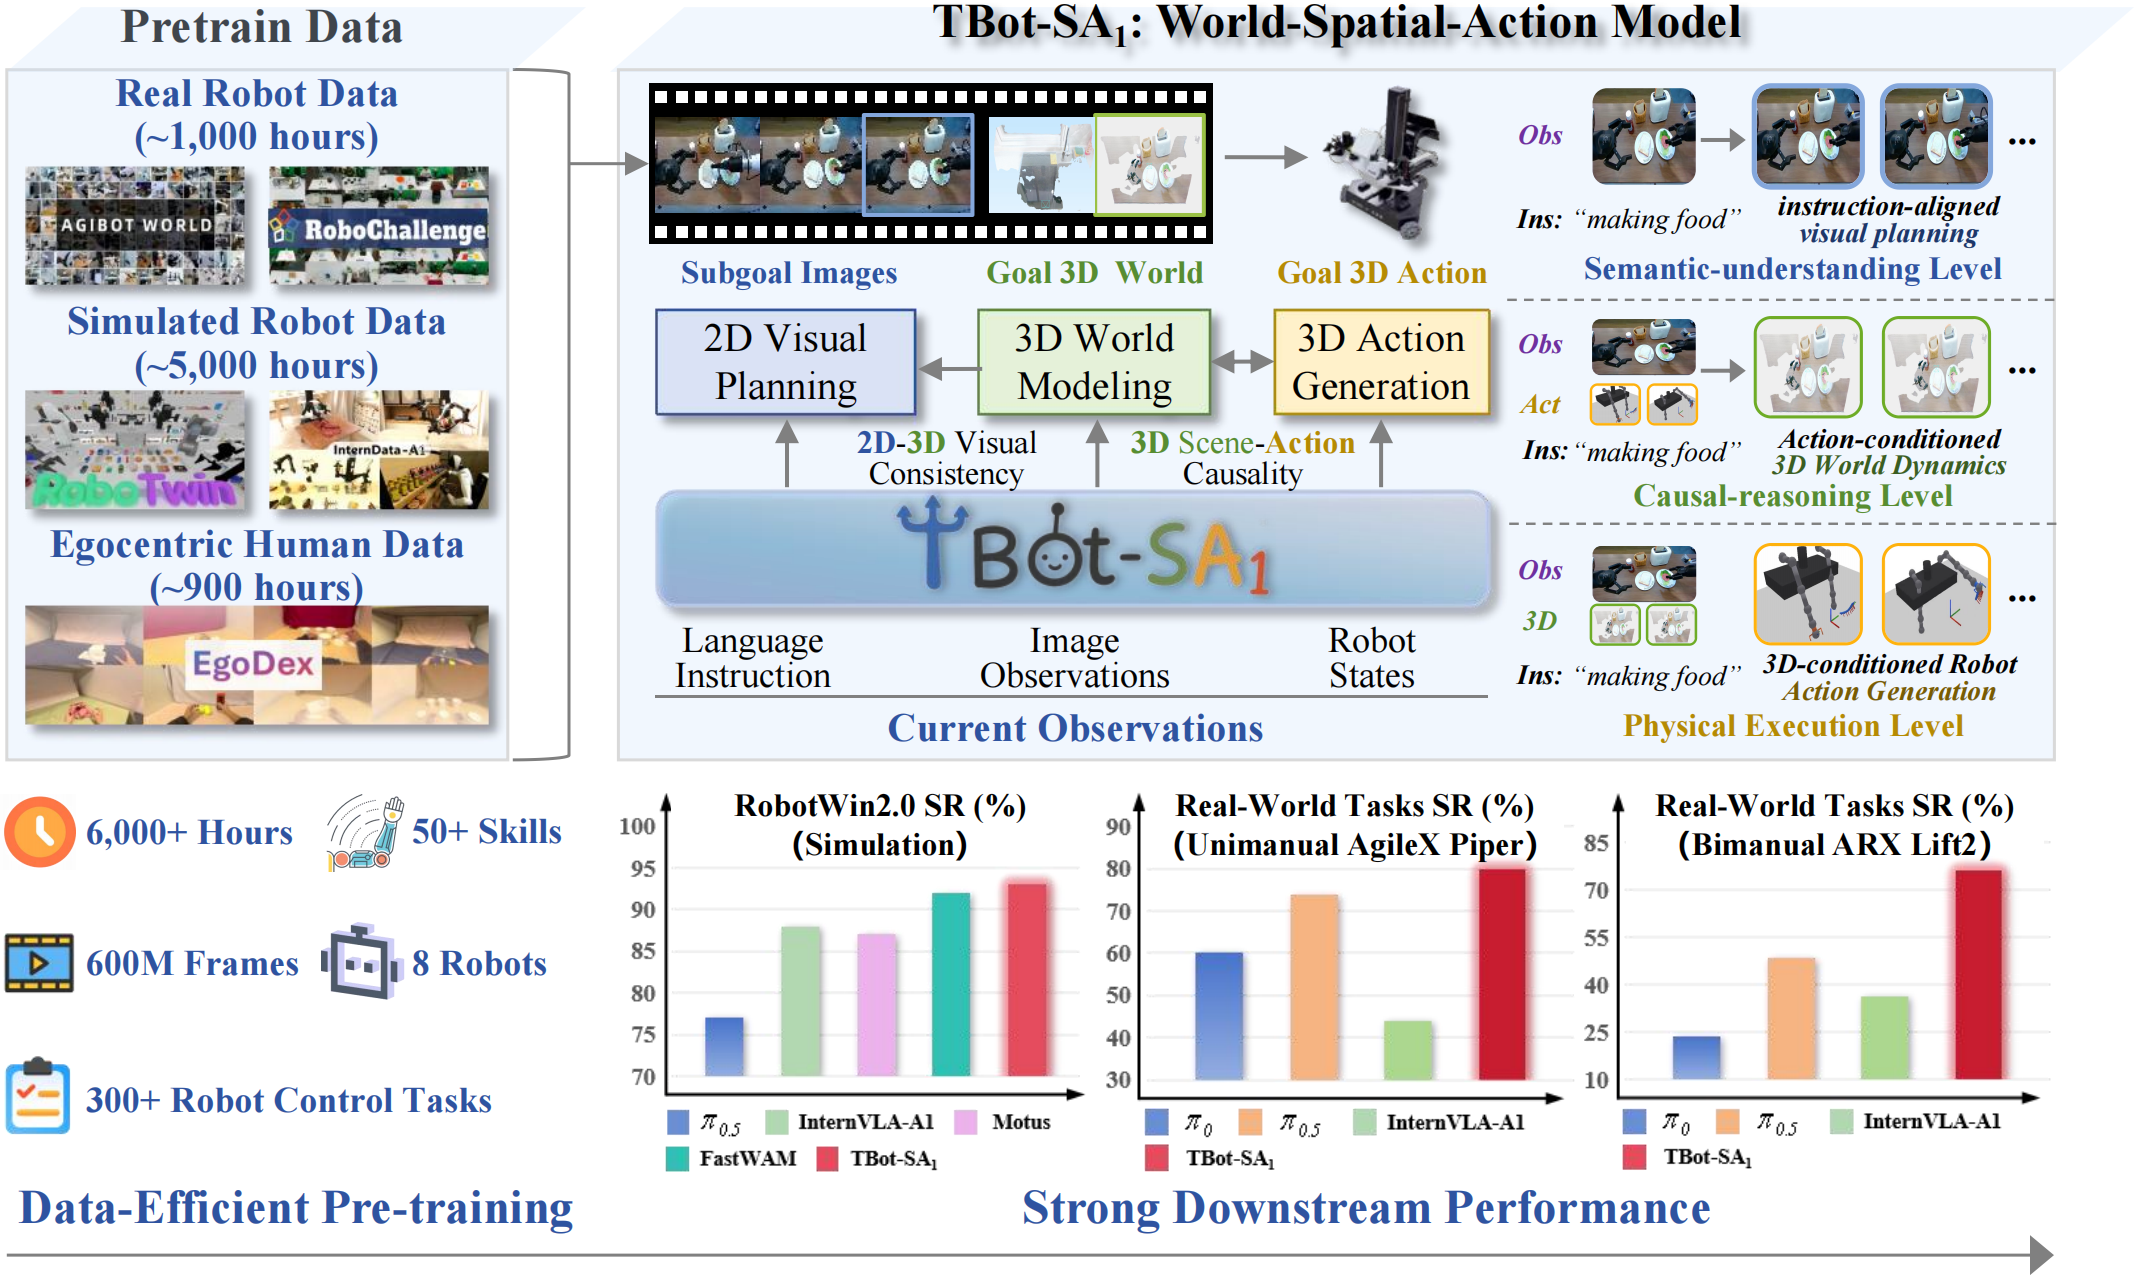
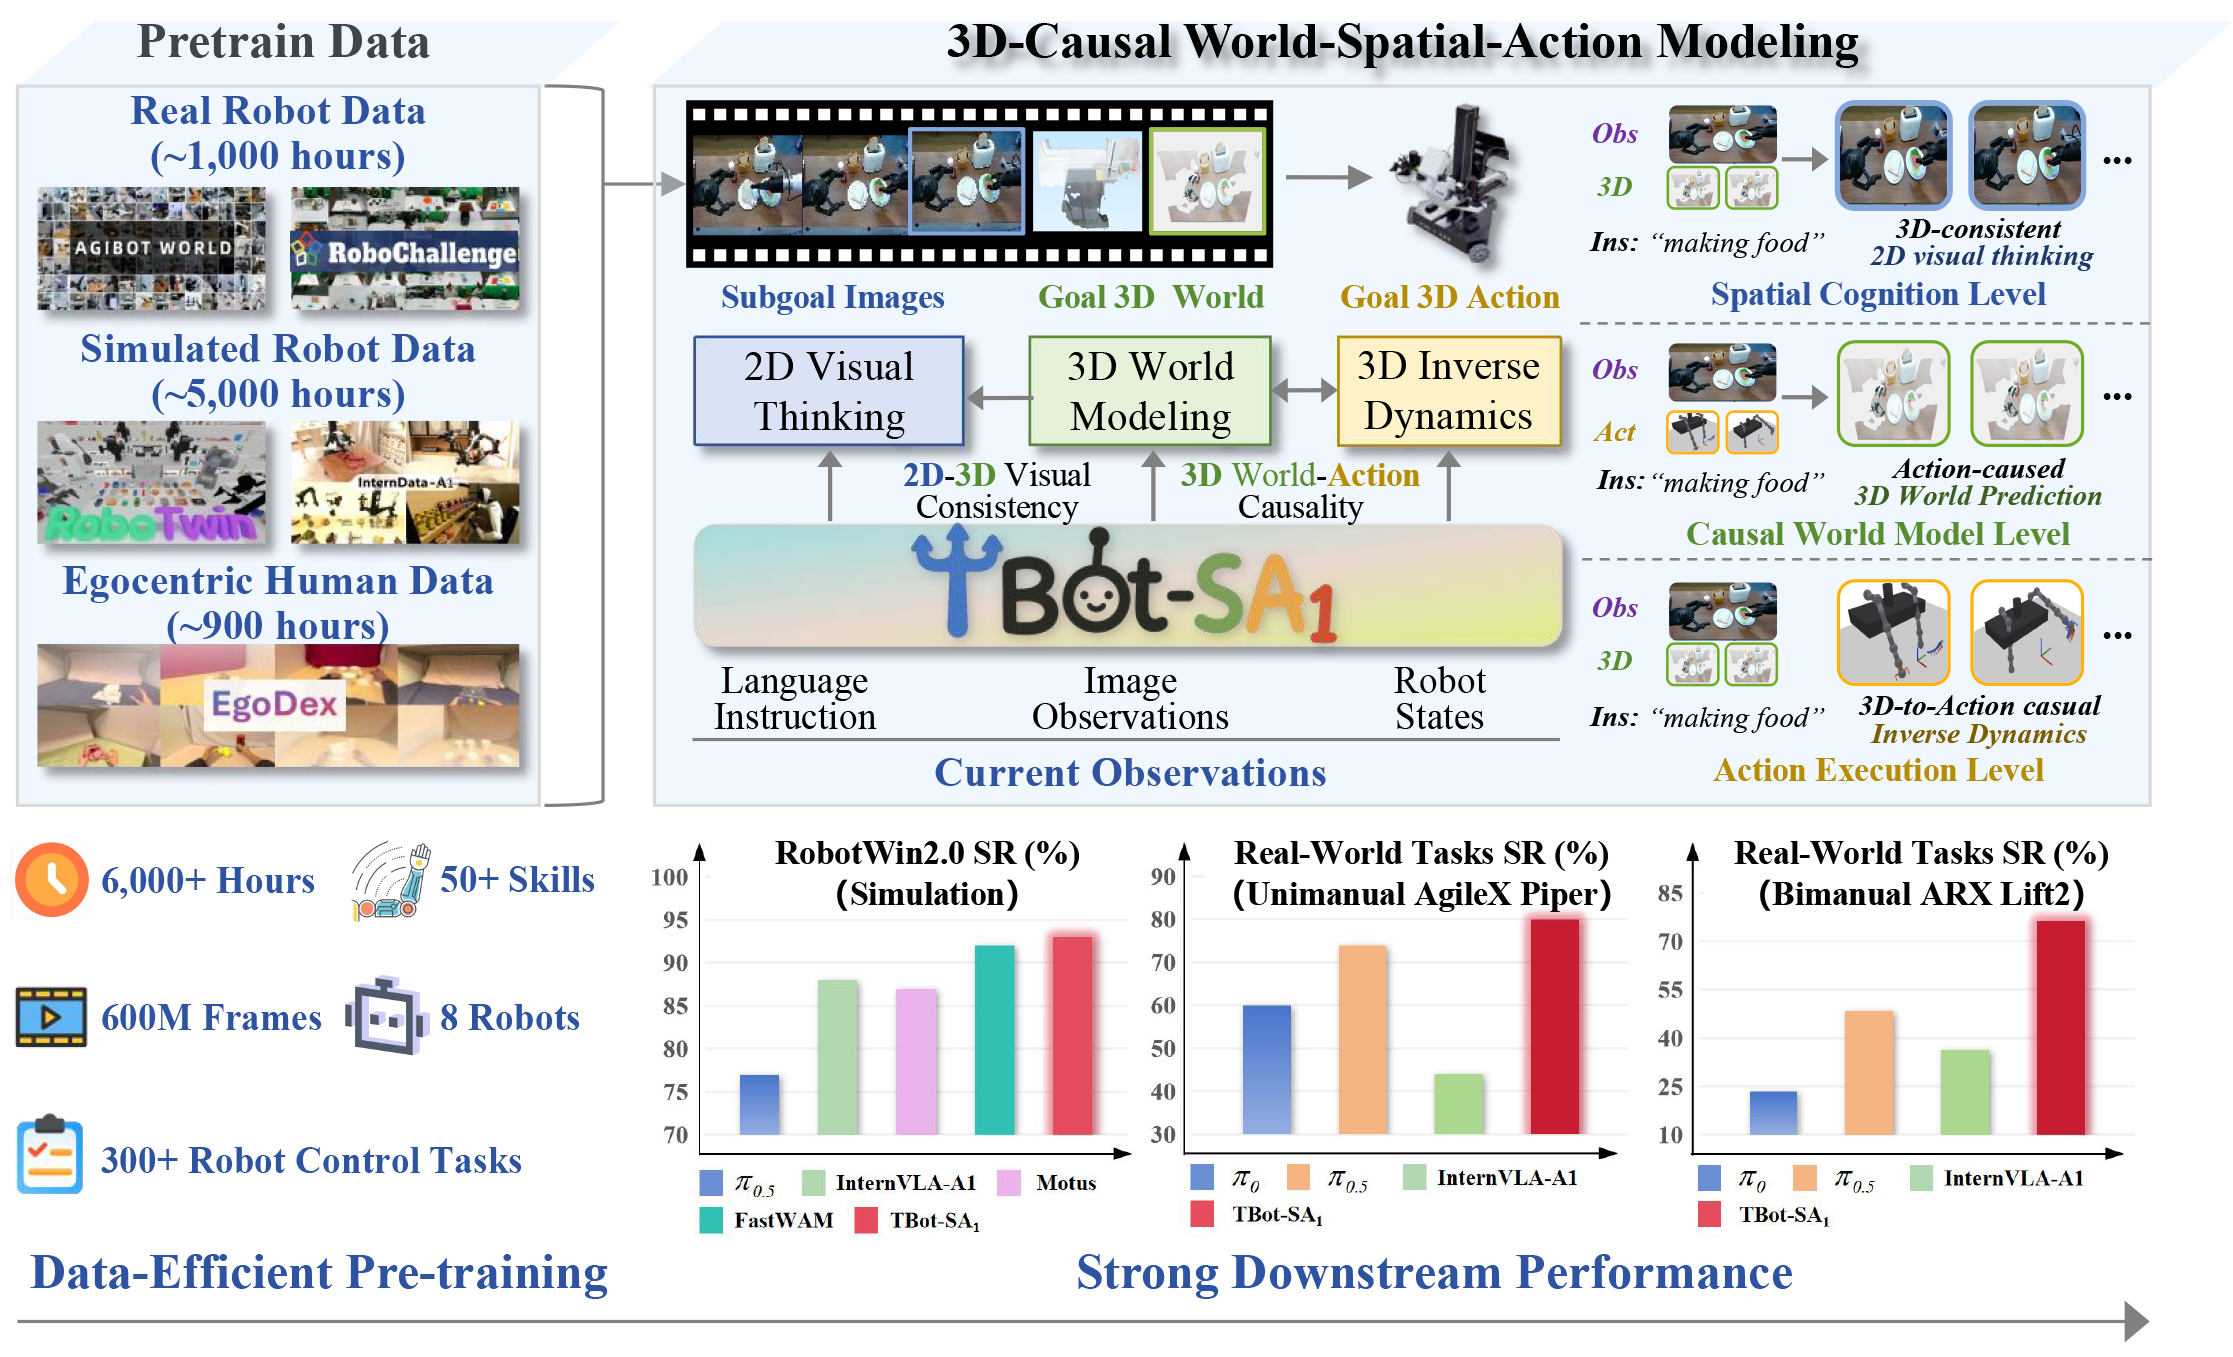
update title

Changed region(s): [[0.0, 0.0, 0.9588, 0.9969]]

diff --git a/README.md b/README.md
@@ -1,4 +1,4 @@
-<h1 align="center">TBot-SA1: 3D-centric World-Spatial-Action Modeling<br>for Generalizable Robot Control</h1>
+<h1 align="center">TBot-SA1: a 3D-Causal World-Spatial-Action Model<br>for Generalizable Robot Control</h1>
 
 <p align="center">
   <img src="assets/logo.png" alt="TBot-SA1" width="420">